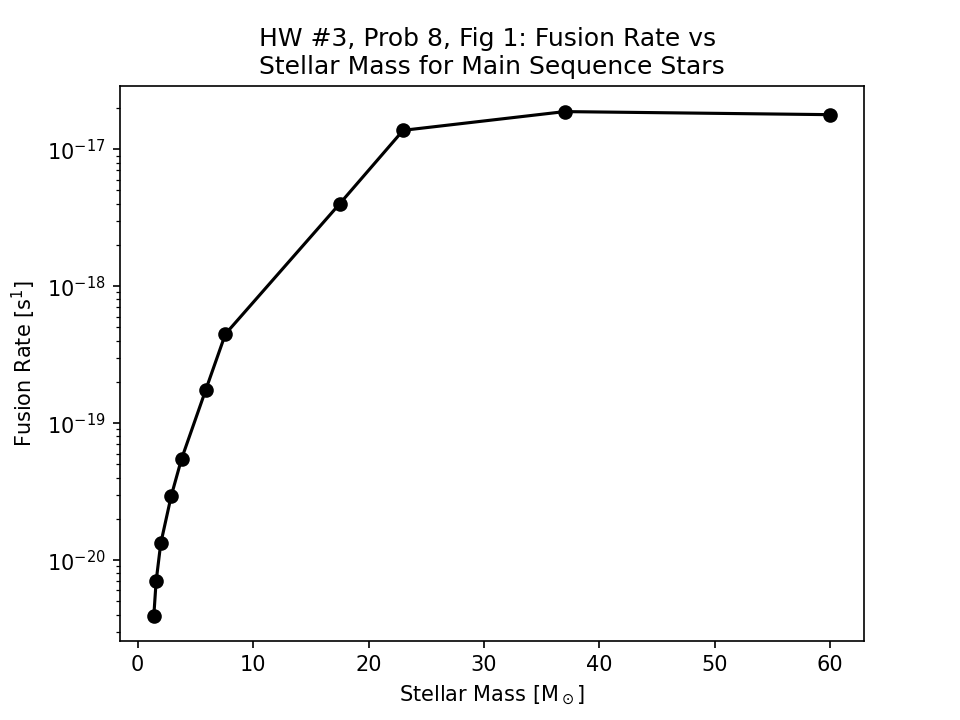
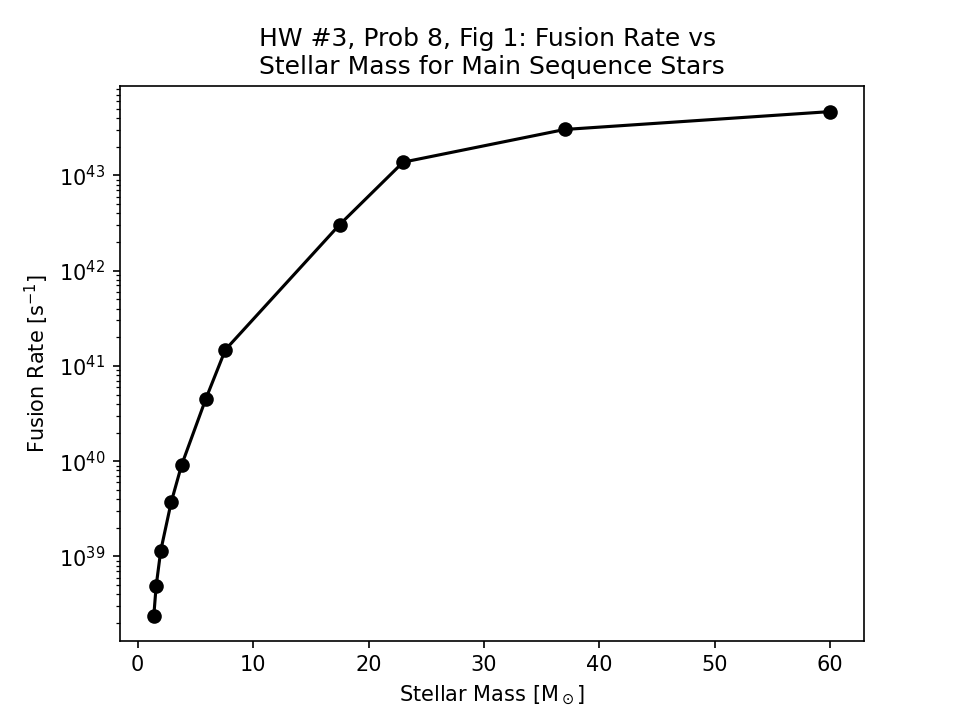
q8 done

diff --git a/HW3/question78.py b/HW3/question78.py
@@ -28,11 +28,11 @@ def fusion_rate(L, E):
 def lifetime(rate, mass, M_sun=M_sun):
     """
     Calculate the lifetime of a star
-    Mass needs to be in solar masses
+    Mass in solar masses
     """
     # Number of H nuclei in core
-    num_H_sun = 1.2e56  # sun
-    num_H_star = num_H_sun * mass / M_sun  # star
+    # num_H_sun = 1.2e56  # sun
+    num_H_star = 0.7 * mass * M_sun / m_H  # star
     # Lifetime = (number of H nuclei that can fuse)/(rate of fusion)
     return (num_H_star / rate).to(u.year)  # [yr]
 
@@ -71,27 +71,45 @@ star_mass = np.array(
         2.9, 2.0,  # A type
         1.6, 1.4 # F type
     ]
-) * M_sun  # [g]
+)  # [M_sun]
 
 # a)
 # Calculate rates
-star_fusion_rate = fusion_rate(star_lum, binding_energy(star_mass).to(u.erg))
+star_fusion_rate = fusion_rate(star_lum, E_bind_erg)
 # Plot
 plt.figure(dpi=150)
-plt.plot(star_mass/M_sun, star_fusion_rate, marker='o', linestyle='-', color='k')
+plt.plot(star_mass, star_fusion_rate, marker='o', linestyle='-', color='k')
 plt.xlabel(r'Stellar Mass [M$_\odot$]')
-plt.ylabel(r'Fusion Rate [s$^1$]')
+plt.ylabel(r'Fusion Rate [s$^{-1}$]')
 plt.yscale('log')
 plt.title('HW #3, Prob 8, Fig 1: Fusion Rate vs \nStellar Mass for Main Sequence Stars')
 plt.savefig(dir_path+'/figures/q8_fig1.png')
 plt.show()
 
 # b)
-max_rate = np.max(rxn_rate)
-print(f'Maximum fusion rate: {max_rate:.2e}')
-min_rate = np.min(rxn_rate)
+min_rate = np.min(star_fusion_rate)
 print(f'Minimum fusion rate: {min_rate:.2e}')
+max_rate = np.max(star_fusion_rate)
+print(f'Maximum fusion rate: {max_rate:.2e}')
 range_rate = max_rate - min_rate
 print(f'Range of fusion rates: {range_rate:.2e}')
 
 # c)
+star_lifetime = lifetime(star_fusion_rate, star_mass)
+# Plot
+plt.figure(dpi=150)
+plt.plot(star_mass, star_lifetime, marker='o', linestyle='-', color='k')
+plt.xlabel(r'Stellar Mass [M$_\odot$]')
+plt.ylabel('Lifetime [yr]')
+plt.yscale('log')
+plt.title('HW #3, Prob 8, Fig 2: Lifetime vs Stellar Mass for Main Sequence Stars')
+plt.savefig(dir_path+'/figures/q8_fig2.png')
+plt.show()
+
+# d)
+min_lifetime = np.min(star_lifetime)
+print(f'Minimum lifetime: {min_lifetime:.2e}')
+max_lifetime = np.max(star_lifetime)
+print(f'Maximum lifetime: {max_lifetime:.2e}')
+range_lifetime = max_lifetime/min_lifetime
+print(f'Range of lifetimes: {range_lifetime:.2e}')
